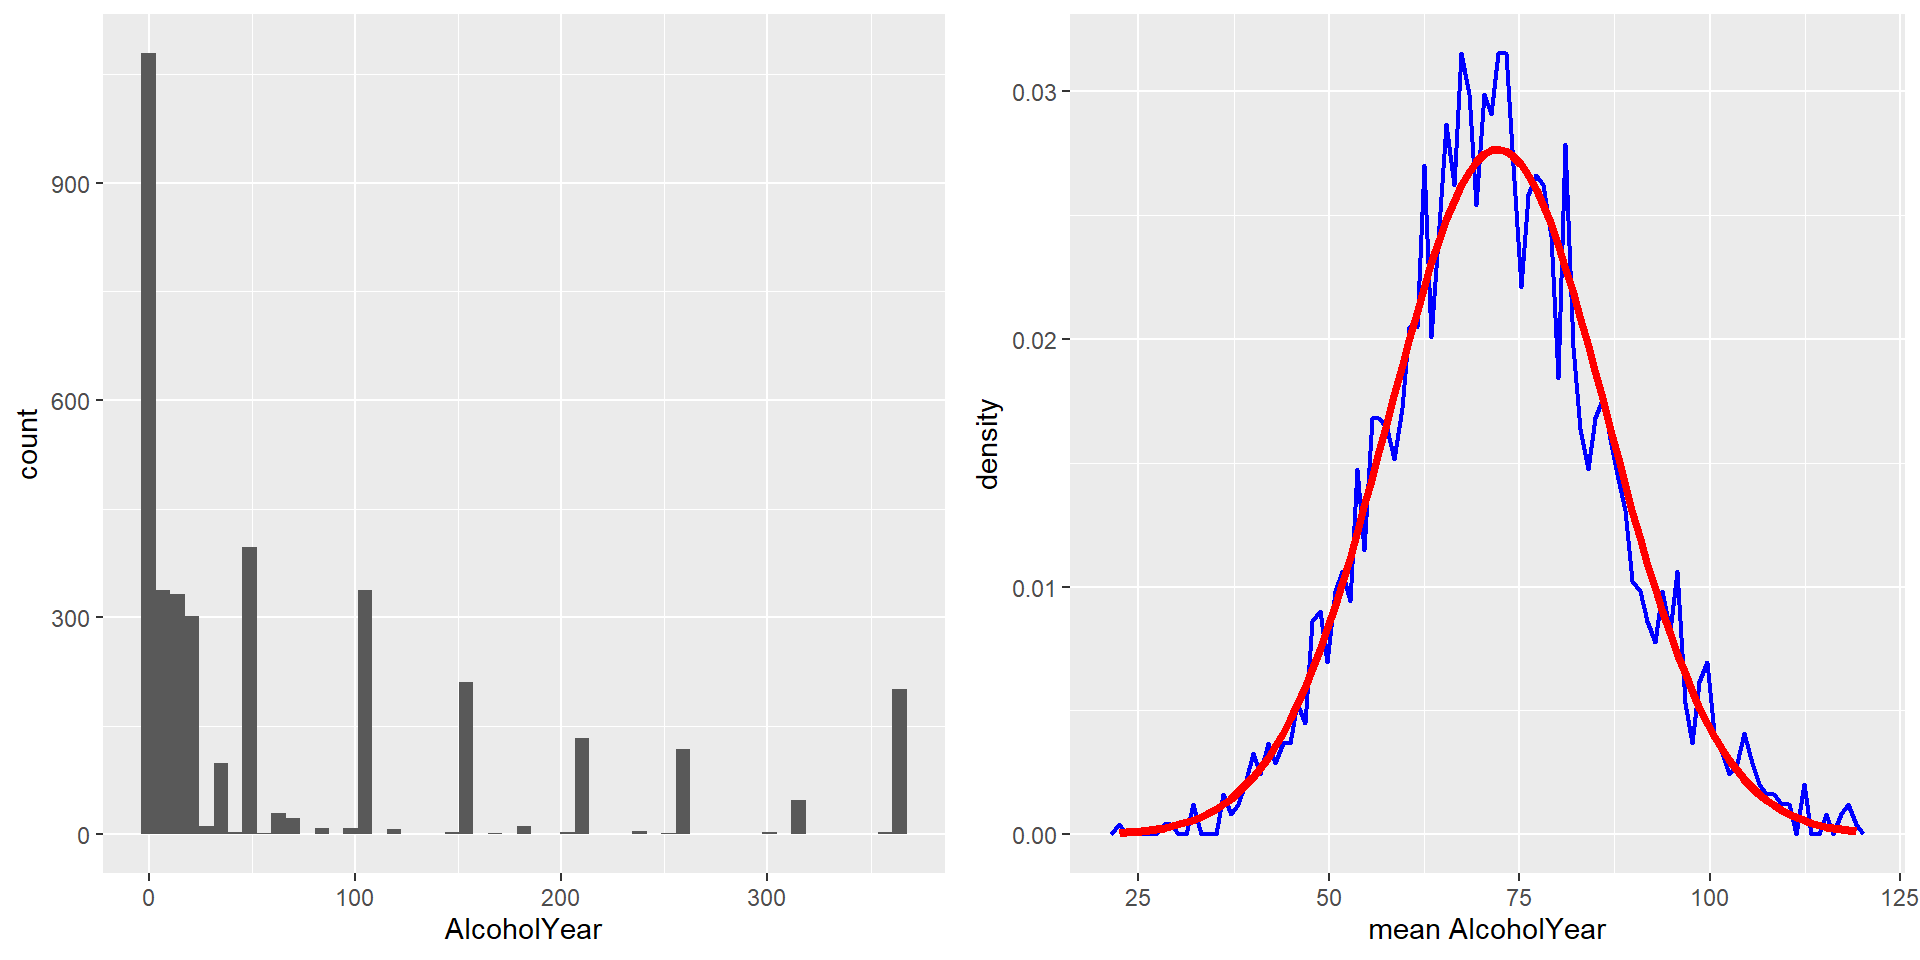
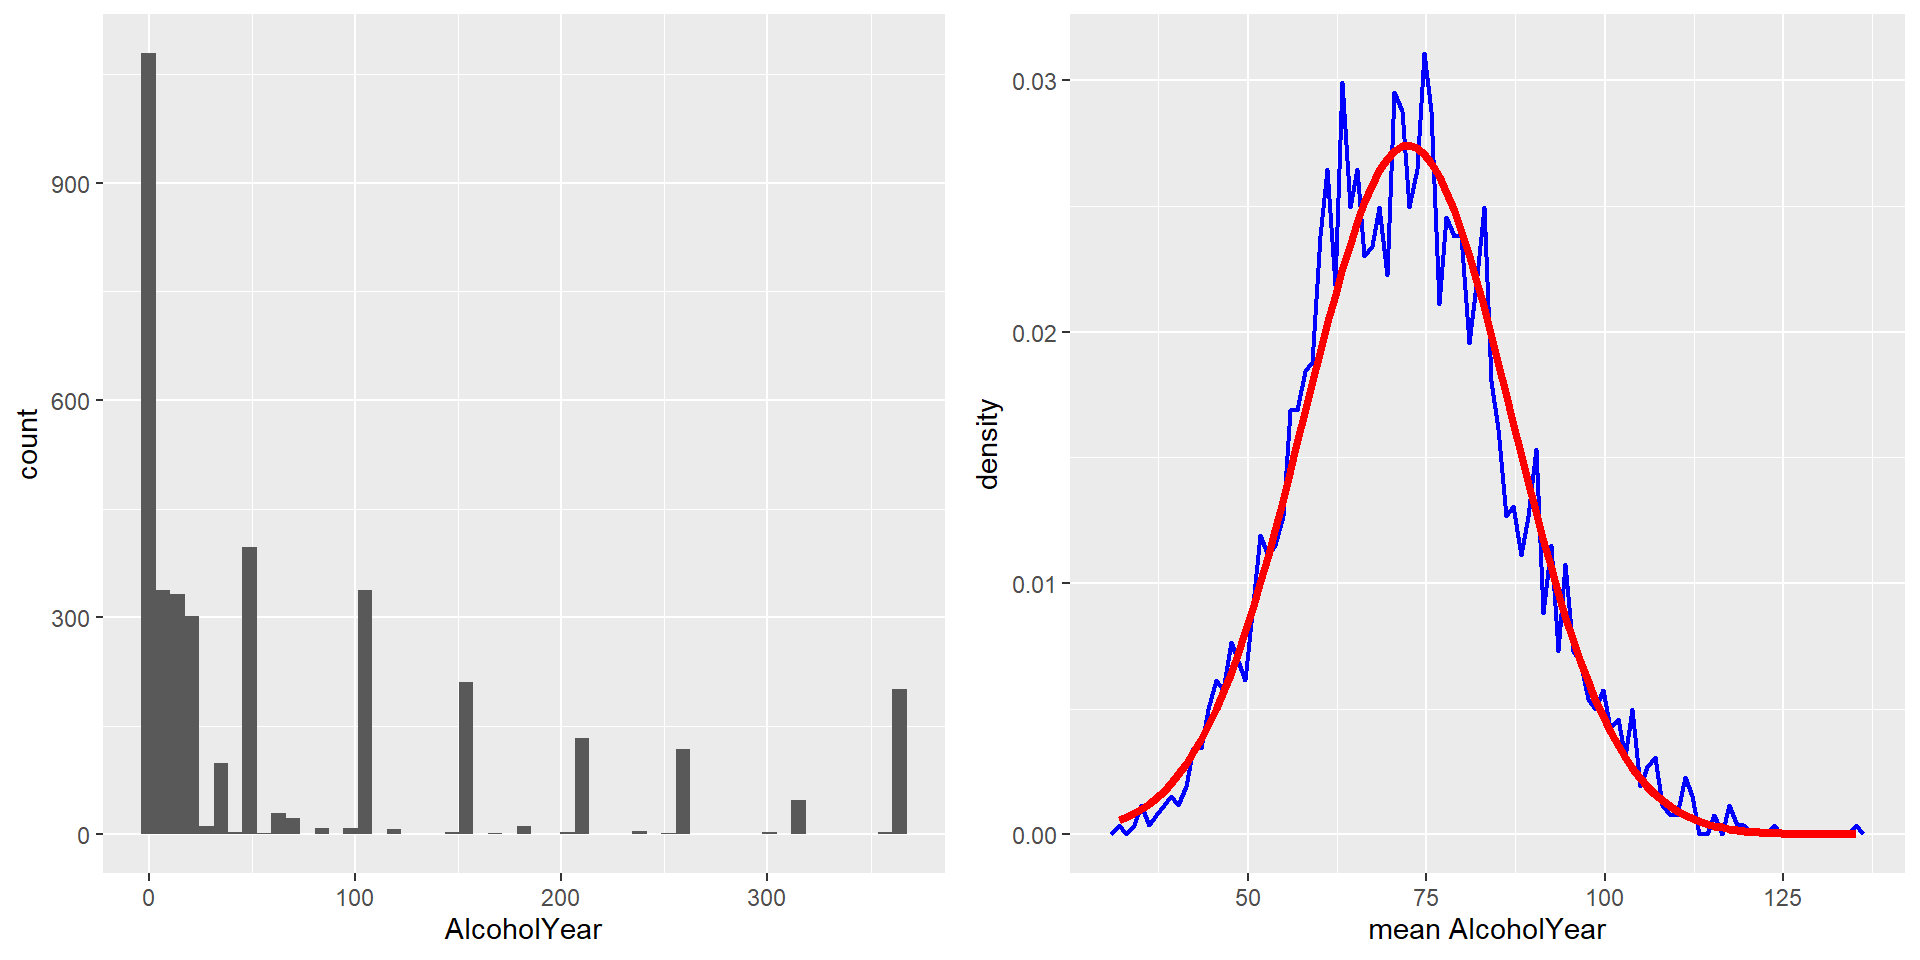
Built site for gh-pages

diff --git a/W6_Sampling.html b/W6_Sampling.html
@@ -288,24 +288,24 @@ Dr.&nbsp;Lea Hildebrandt
 </thead>
 <tbody>
 <tr class="odd">
-<td style="text-align: right;">168.024</td>
-<td style="text-align: right;">9.262555</td>
+<td style="text-align: right;">169.344</td>
+<td style="text-align: right;">10.205564</td>
 </tr>
 <tr class="even">
-<td style="text-align: right;">169.128</td>
-<td style="text-align: right;">9.163348</td>
+<td style="text-align: right;">165.540</td>
+<td style="text-align: right;">8.826236</td>
 </tr>
 <tr class="odd">
-<td style="text-align: right;">168.784</td>
-<td style="text-align: right;">11.519112</td>
+<td style="text-align: right;">169.178</td>
+<td style="text-align: right;">10.513165</td>
 </tr>
 <tr class="even">
-<td style="text-align: right;">169.102</td>
-<td style="text-align: right;">11.602155</td>
+<td style="text-align: right;">169.254</td>
+<td style="text-align: right;">10.216757</td>
 </tr>
 <tr class="odd">
-<td style="text-align: right;">170.232</td>
-<td style="text-align: right;">10.445220</td>
+<td style="text-align: right;">168.708</td>
+<td style="text-align: right;">11.040368</td>
 </tr>
 </tbody>
 </table>
@@ -651,14 +651,14 @@ This value is the amount of time that we should allow - <em>given our assumption
 <span id="cb10-14"><a></a><span class="fu">print</span>(cutoff)</span></code><button title="Copy to Clipboard" class="code-copy-button"><i class="bi"></i></button></pre></div>
 <div class="cell-output cell-output-stdout">
 <pre><code>     99% 
-8.873147 </code></pre>
+8.826411 </code></pre>
 </div>
 </div>
 </section>
 <section id="using-monte-carlo-simulations-4" class="slide level2">
 <h2>Using Monte Carlo Simulations 4</h2>
 
-<img data-src="W6_Sampling_files/figure-revealjs/unnamed-chunk-14-1.png" width="960" class="r-stretch"><p>This shows that the 99th percentile of the finishing time distribution falls at 8.8544283 minutes, meaning that if we were to give that much time for the quiz, then we expect that in 99% of quizzes, every student would finish.</p>
+<img data-src="W6_Sampling_files/figure-revealjs/unnamed-chunk-14-1.png" width="960" class="r-stretch"><p>This shows that the 99th percentile of the finishing time distribution falls at 8.8076063 minutes, meaning that if we were to give that much time for the quiz, then we expect that in 99% of quizzes, every student would finish.</p>
 <aside class="notes">
 <p>Assumptions matter, otherwise results wrong! (We assumed: normal dist w/ particular mean and SD). Here assumptions certainly wrong –&gt; elapsed time not normal</p>
 <style type="text/css">
@@ -714,11 +714,11 @@ This value is the amount of time that we should allow - <em>given our assumption
 <span id="cb12-21"><a></a></span>
 <span id="cb12-22"><a></a>SEM_standard</span></code><button title="Copy to Clipboard" class="code-copy-button"><i class="bi"></i></button></pre></div>
 <div class="cell-output cell-output-stdout">
-<pre><code>[1] 1.733557</code></pre>
+<pre><code>[1] 1.736886</code></pre>
 </div>
 <div class="sourceCode cell-code" id="cb14"><pre class="sourceCode numberSource r number-lines code-with-copy"><code class="sourceCode r"><span id="cb14-1"><a></a>SEM_bootstrap</span></code><button title="Copy to Clipboard" class="code-copy-button"><i class="bi"></i></button></pre></div>
 <div class="cell-output cell-output-stdout">
-<pre><code>[1] 1.66768</code></pre>
+<pre><code>[1] 1.738713</code></pre>
 </div>
 </div>
 </div><div class="column">
@@ -799,7 +799,7 @@ Model-based procedures (like most statistical tests we will cover in this class)
 </div>
 <div class="sourceCode cell-code" id="cb20"><pre class="sourceCode numberSource r number-lines code-with-copy"><code class="sourceCode r"><span id="cb20-1"><a></a><span class="fu">sd</span>(mean_bootstrap_20)</span></code><button title="Copy to Clipboard" class="code-copy-button"><i class="bi"></i></button></pre></div>
 <div class="cell-output cell-output-stdout">
-<pre><code>[1] 0.4222697</code></pre>
+<pre><code>[1] 0.4101759</code></pre>
 </div>
 </div>
 <p>We can conclude that the SEM is smaller with a larger sample size, which means we can be more certain about our estimate! (We already knew this from the <span class="math inline">\(\sqrt{n}\)</span> in the denominator of the SE formular but it’s nice to see it confirmed.)</p>

diff --git a/W5_Probability.html b/W5_Probability.html
@@ -740,27 +740,27 @@ div.cell-output-stdout {
 <div class="sourceCode cell-code" id="cb1"><pre class="sourceCode numberSource r number-lines code-with-copy"><code class="sourceCode r"><span id="cb1-1"><a></a><span class="co">#1</span></span>
 <span id="cb1-2"><a></a><span class="fu">runif</span>(<span class="at">n=</span><span class="dv">1</span>) <span class="co">#default parameters are already set to min=0 and max=1</span></span></code><button title="Copy to Clipboard" class="code-copy-button"><i class="bi"></i></button></pre></div>
 <div class="cell-output cell-output-stdout">
-<pre><code>[1] 0.6986218</code></pre>
+<pre><code>[1] 0.1617791</code></pre>
 </div>
 <div class="sourceCode cell-code" id="cb3"><pre class="sourceCode numberSource r number-lines code-with-copy"><code class="sourceCode r"><span id="cb3-1"><a></a><span class="co">#2</span></span>
 <span id="cb3-2"><a></a><span class="fu">runif</span>(<span class="at">n=</span><span class="dv">100</span>, <span class="at">max=</span><span class="dv">10</span>) <span class="sc">%&gt;%</span> <span class="fu">mean</span>()</span></code><button title="Copy to Clipboard" class="code-copy-button"><i class="bi"></i></button></pre></div>
 <div class="cell-output cell-output-stdout">
-<pre><code>[1] 5.010572</code></pre>
+<pre><code>[1] 4.886912</code></pre>
 </div>
 <div class="sourceCode cell-code" id="cb5"><pre class="sourceCode numberSource r number-lines code-with-copy"><code class="sourceCode r"><span id="cb5-1"><a></a><span class="co">#3</span></span>
 <span id="cb5-2"><a></a><span class="fu">sample</span>(<span class="dv">1</span><span class="sc">:</span><span class="dv">10</span>, <span class="at">size=</span><span class="dv">50</span>, <span class="at">replace=</span>T) <span class="sc">%&gt;%</span> <span class="fu">mean</span>()</span></code><button title="Copy to Clipboard" class="code-copy-button"><i class="bi"></i></button></pre></div>
 <div class="cell-output cell-output-stdout">
-<pre><code>[1] 5.08</code></pre>
+<pre><code>[1] 5.54</code></pre>
 </div>
 <div class="sourceCode cell-code" id="cb7"><pre class="sourceCode numberSource r number-lines code-with-copy"><code class="sourceCode r"><span id="cb7-1"><a></a><span class="co">#4</span></span>
 <span id="cb7-2"><a></a><span class="fu">sample</span>(<span class="fu">c</span>(<span class="st">"Anna"</span>, <span class="st">"Barbara"</span>, <span class="st">"Christina"</span>, <span class="st">"Dana"</span>), <span class="at">size=</span><span class="dv">1</span>)</span></code><button title="Copy to Clipboard" class="code-copy-button"><i class="bi"></i></button></pre></div>
 <div class="cell-output cell-output-stdout">
-<pre><code>[1] "Christina"</code></pre>
+<pre><code>[1] "Barbara"</code></pre>
 </div>
 <div class="sourceCode cell-code" id="cb9"><pre class="sourceCode numberSource r number-lines code-with-copy"><code class="sourceCode r"><span id="cb9-1"><a></a><span class="co">#5</span></span>
 <span id="cb9-2"><a></a><span class="fu">sample</span>(<span class="fu">c</span>(<span class="st">"Anna"</span>, <span class="st">"Barbara"</span>, <span class="st">"Christina"</span>, <span class="st">"Dana"</span>)) <span class="co">#by default, sample draws all elements in random order</span></span></code><button title="Copy to Clipboard" class="code-copy-button"><i class="bi"></i></button></pre></div>
 <div class="cell-output cell-output-stdout">
-<pre><code>[1] "Dana"      "Christina" "Anna"      "Barbara"  </code></pre>
+<pre><code>[1] "Barbara"   "Christina" "Dana"      "Anna"     </code></pre>
 </div>
 </div>
 </div>

diff --git a/W4_DataVizR.html b/W4_DataVizR.html
@@ -395,7 +395,7 @@ Levels: 1 2 3 4 5</code></pre>
 </div></aside></section>
 <section id="set-labels-1" class="slide level2">
 <h2>Set labels</h2>
-<p><code>match_case()</code> allows us to label our numeric data with more human-readable descriptions. <code>if_else()</code> is a useful shorthand for cases where we only have two categories.</p>
+<p><code>case_match()</code> or <code>case_when()</code> (or simply <code>recode()</code>) allow us to label our numeric data with more human-readable descriptions. <code>if_else()</code> is a useful shorthand for cases where we only have two categories.</p>
 <div class="cell">
 <div class="sourceCode cell-code" id="cb12" data-code-line-numbers="5-13|4|14-16"><pre class="sourceCode numberSource r number-lines code-with-copy"><code class="sourceCode r"><span id="cb12-1"><a></a>summarydata2 <span class="ot">&lt;-</span> </span>
 <span id="cb12-2"><a></a>  summarydata <span class="sc">%&gt;%</span> </span>
@@ -920,7 +920,7 @@ Levels: low middle high</code></pre>
 <div class="fragment">
 <p><strong>Next:</strong></p>
 <ul>
-<li>Sampling</li>
+<li>Theory: Probability &amp; Sampling</li>
 </ul>
 
 

diff --git a/W13_RMarkdown.html b/W13_RMarkdown.html
@@ -375,7 +375,7 @@ div.cell-output-stdout {
 <span id="cb6-2"><a></a>data = tibble(rt = rnorm(n=100, mean=.5, sd=.2))</span>
 <span id="cb6-3"><a></a>```</span>
 <span id="cb6-4"><a></a>We observed an average reaction time of `r data %&gt;% pull(rt) %&gt;% mean() %&gt;% signif(digits=3)` seconds.</span></code><button title="Copy to Clipboard" class="code-copy-button"><i class="bi"></i></button></pre></div>
-<p>We observed an average reaction time of 0.488 seconds.</p>
+<p>We observed an average reaction time of 0.532 seconds.</p>
 <ol start="3" type="1">
 <li>Knit the document and open the output with a double click.</li>
 </ol>

diff --git a/W3_DataWranglingR.html b/W3_DataWranglingR.html
@@ -899,16 +899,16 @@ Also, there are slight differences between <code>&lt;-</code> and <code>=</code>
 <pre><code># A tibble: 10 × 2
     year decade
    &lt;dbl&gt;  &lt;dbl&gt;
- 1  1903   1900
- 2  1905   1900
- 3  1906   1900
- 4  1916   1910
- 5  1927   1920
- 6  1954   1950
- 7  1957   1950
- 8  1974   1970
- 9  1999   1990
-10  2007   2000</code></pre>
+ 1  1889   1880
+ 2  1894   1890
+ 3  1908   1900
+ 4  1909   1900
+ 5  1910   1910
+ 6  1925   1920
+ 7  1945   1940
+ 8  1956   1950
+ 9  1994   1990
+10  2004   2000</code></pre>
 </div>
 </div>
 </div>
